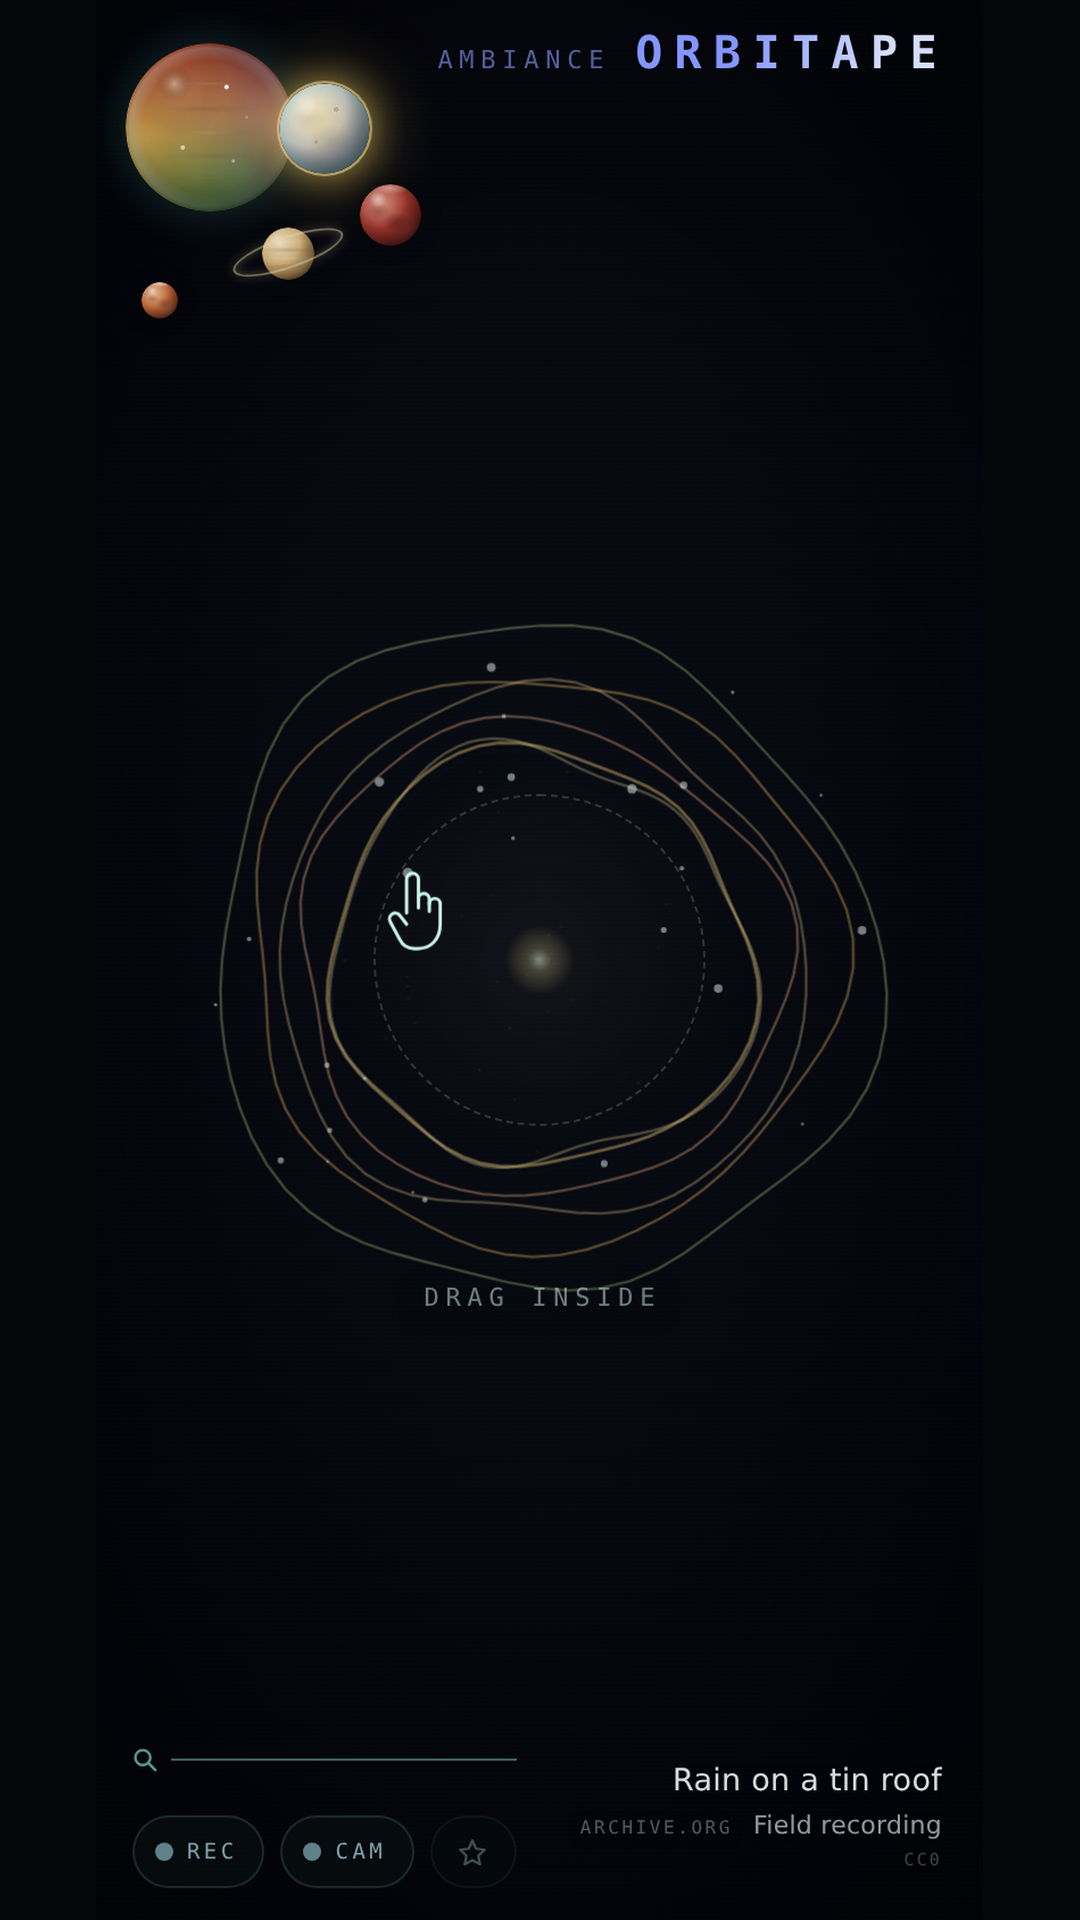
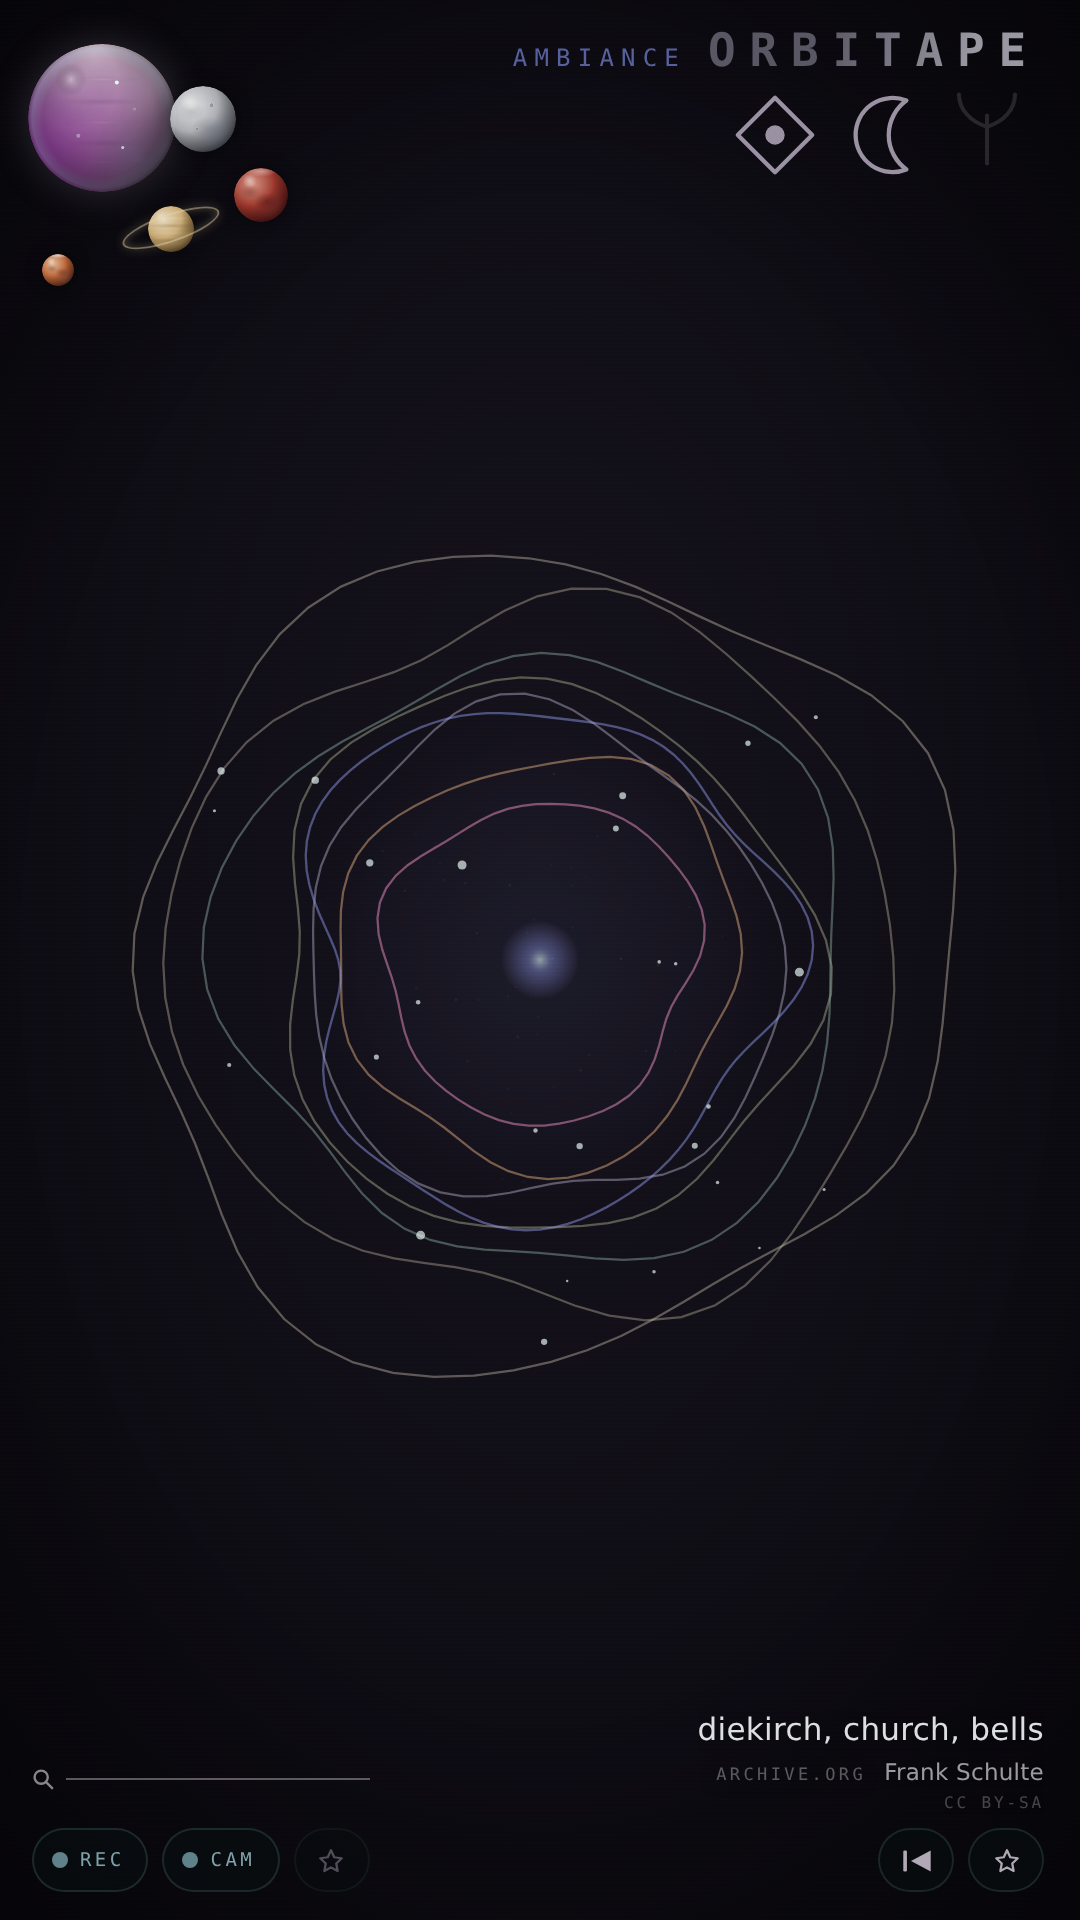
Magaza malzemesi + uc ekran hatasi
Ekran goruntuleri uygulamanin SU ANKI kodundan yeniden cekildi.
Cekim uc gercek hatayi acikca gosterdi ve ucu de duzeltildi:

1. Ulke kodu ekrana hic gelmiyordu. radyo.json'da ulke yaziyor ama
   istasyonDoldur() icindeki ARA nesne alani tasimayi unutmustu;
   sonraki push a.ulke okuyordu. Zincirin iki ucu bagli, ortasi
   kopuktu. Artik: LIVE . ELECTRONIC . UA

2. MIXTAPE kanalinda ust yazi 'RADIOTAPE' diyordu. else dali radyoyu
   da kapsayacak diye yazilmisti ama radyo bir ust satirda zaten
   donuyor; geriye yalnizca mixtape kaliyordu.

3. Kendi parcalarimizda hem kaynak hem sanatci PLAYJOY ve ekranda
   yan yana iki kez yaziyordu. Ayni ise kaynak satiri artik bos.

Ucu de teste baglandi: 337 -> 340.

Ekran goruntuleri: 1 radyo (ulke kodu gorunuyor), 2 retro FX,
3 arsiv -- gercek earth.json kaydi, lisans ve sanatci satiriyla.

diff --git a/test/saglik.js b/test/saglik.js
@@ -2675,6 +2675,62 @@ const K = (ad, gecti, olcum) => sonuc.push({ad, gecti:!!gecti, olcum:String(olcu
         return /_kayitBoyut \+= e\.data\.size/.test(k)
             && /kayitParcalari=\[\]; _kayitBoyut=0/.test(k);
       }), 'her parcada toplaniyor, kayit bitince sifirlaniyor');
+    /* ULKE KODU KUYRUGA KADAR GELMELI.
+       Olculen vaka: radyo.json'da ulke='US' yaziyordu, ekranda ise
+       "LIVE · ELECTRONIC" cikiyor, ulke hic gorunmuyordu. Veri
+       dogruydu; istasyonDoldur() icindeki ARA nesne (aday) alani
+       tasimayi unutmustu, sonraki push da a.ulke okuyordu. Yani
+       zincirin ucu bagliydi, ortasi kopuktu.
+       Bu yuzden test iki ucu birden tutuyor: bicimlendirme (dogru
+       yaziyor mu) VE aktarim (ara nesne alani tasiyor mu). */
+    K('Ulke kodu ekrana kadar geliyor', await pg.evaluate(()=>{
+        const k = document.documentElement.innerHTML;
+        /* 1) Bicim: elde ne varsa o yaziliyor, uydurma yok */
+        const tam  = kaynakSatiri({ radyo:true, grup:'ELECTRONIC', ulke:'us' });
+        const yok  = kaynakSatiri({ radyo:true, grup:'ELECTRONIC', ulke:''   });
+        const rafsiz = kaynakSatiri({ radyo:true, grup:'', ulke:'NL' });
+        /* 2) Aktarim: aday nesnesi de ulkeyi tasiyor olmali --
+           push tarafi a.ulke okuyor, orada yoksa satir hep eksik. */
+        const zincir = /aday\.push\(\{[^}]*ulke\s*:/.test(k)
+                    && /radyoKuyruk\.push\(\{[^}]*ulke\s*:/.test(k);
+        return tam === 'LIVE · ELECTRONIC · US'
+            && yok === 'LIVE · ELECTRONIC'
+            && rafsiz === 'LIVE · NL'
+            && zincir;
+      }), 'LIVE · RAF · ULKE; aday ve kuyruk ikisi de ulkeyi tasiyor');
+    /* KANAL ADI DOGRU YAZILMALI.
+       Olculen vaka: MIXTAPE kanalindayken ust yazi 'RADIOTAPE'
+       diyordu. Else dali radyoyu da kapsayacak diye yazilmisti ama
+       radyo bir ust satirda zaten donuyor; geriye yalnizca mixtape
+       kaliyordu ve yanlis kanalin adini aliyordu. */
+    K('Kanal adi dogru yaziliyor', await pg.evaluate(()=>{
+        const eM = mod, eA = AKTIF_AILE, eK = AKTIF_MOD;
+        const oku = ()=>{ modAdiYaz(); return document.getElementById('modAd').textContent; };
+        AKTIF_MOD = null;
+        mod = 'liste'; AKTIF_AILE = null; const mix = oku();
+        mod = 'lib';                       const ars = oku();
+        mod = 'radio'; AKTIF_AILE = null;  const bos = oku();
+        mod = 'radio'; AKTIF_AILE = 'JAZZ';const raf = oku();
+        mod = eM; AKTIF_AILE = eA; AKTIF_MOD = eK; modAdiYaz();
+        return mix === 'MIXTAPE' && ars === 'ORBITAPE'
+            && bos === '' && raf === 'JAZZ';
+      }), 'liste=MIXTAPE, lib=ORBITAPE, radyoda raf adi ya da bos');
+    /* AYNI SEY IKI KEZ YAZILMAZ. Kendi parcalarimizda hem kaynak hem
+       sanatci 'PLAYJOY' ve ekranda yan yana iki kez cikiyordu. */
+    K('Kaynak sanatciyla ayniysa tekrarlanmiyor', await pg.evaluate(()=>{
+        const eM = mod;
+        mod = 'liste';
+        simdiCalan({ id:'lst:0', ad:'Caramel Delusion', sanatci:'PLAYJOY',
+                     mp3:'https://cdn.jsdelivr.net/gh/playjoymusic/tracks@main/x.mp3' });
+        const ayni = document.getElementById('npKaynak').textContent.trim();
+        simdiCalan({ id:'rb:1', ad:'Some Station', radyo:true,
+                     grup:'JAZZ', ulke:'DE', mp3:'https://x/y' });
+        const farkli = document.getElementById('npKaynak').textContent.trim();
+        mod = eM;
+        /* Ayni oldugunda satir bos; farkli oldugunda hala yaziyor --
+           tekrarı kaldirirken bilgiyi de kaldirmis olmayalim. */
+        return ayni === '' && farkli === 'LIVE · JAZZ · DE';
+      }), 'PLAYJOY PLAYJOY yok; farkli kaynak hala yaziliyor');
     K('Acilis turu bugunku uygulamayi anlatiyor', await pg.evaluate(()=>{
         const a = turAdimlari();
         const basliklar = a.map(x=>x.bas);

diff --git a/index.html b/index.html
@@ -2306,7 +2306,15 @@
        Kanal adı da bu panelde tekrarlanmıyor — sağ üstte zaten yazıyor. */
     ufoDurdur();
     npAd.textContent = ad; npSanatci.textContent = sanatci;
-    try{ npKaynak.textContent = kaynakSatiri(item); }catch(e){ _yut(e); }   // sesin geldiği yer
+    /* KAYNAK SANATÇIYLA AYNIYSA İKİ KEZ YAZILMIYOR. Kendi
+       parçalarımızda ikisi de "PLAYJOY" ve ekranda yan yana
+       "PLAYJOY PLAYJOY" çıkıyordu. Bilgi eklemeyen tekrar, gürültü. */
+    try{
+      const _k = kaynakSatiri(item);
+      npKaynak.textContent =
+        (_k && sanatci && _k.trim().toLowerCase() === sanatci.trim().toLowerCase())
+          ? '' : _k;
+    }catch(e){ _yut(e); }   // sesin geldiği yer
     /* Lisans kendi satırında, en altta. Yoksa hiç yer kaplamıyor
        (canlı radyoda ve kendi parçalarımızda lisans satırı çıkmaz). */
     try{
@@ -5409,7 +5417,11 @@
       for(const st of list){
         const u=st.url_resolved||st.url, id="rb:"+(st.stationuuid||u);
         if(CALINDI.has(id)||radyoKuyruk.some(x=>x.id===id)) continue;
-        aday.push({ id, u, ad:istasyonAdiTemiz(st.name||'radyo'), grup:(st.grup||''), saf:(st.saf||3) });
+        /* ULKE BURADA DA TASINMALI: asagidaki push a.ulke okuyor.
+           Bir ara bu alan burada unutuldu; veri dogruydu ama ara
+           halkada dusuyordu ve ekranda "LIVE · ELECTRONIC" yaziyordu,
+           ulke kodu hic gelmiyordu. */
+        aday.push({ id, u, ad:istasyonAdiTemiz(st.name||'radyo'), grup:(st.grup||''), saf:(st.saf||3), ulke:(st.ulke||'') });
         if(aday.length>=16) break;
       }
       if(aday.length){
@@ -6555,8 +6567,13 @@
            "ne alaka" dedi -- ortadaki zara her basista cikiyordu,
            yani ekranin yarisi zaman ALL yaziyordu). Dogrusu sessizlik:
            secili bir sey yoksa ekranda da bir sey yazmiyor. */
+        /* KANAL ADLARI: lib -> ORBITAPE (arsiv), liste -> MIXTAPE.
+           Burada 'liste' de RADIOTAPE yaziyordu: else dali radyoyu
+           da kapsadigi icin yazilmisti ama radyo bir ustteki satirda
+           zaten donuyor, geriye sadece MIXTAPE kaliyor. Sonuc: mixtape
+           kanalinda ekranda RADIOTAPE yaziyordu. */
         if(typeof mod !== 'undefined' && mod === 'radio') ad = AKTIF_AILE || '';
-        else ad = AKTIF_MOD || (mod === 'lib' ? 'ORBITAPE' : 'RADIOTAPE');
+        else ad = AKTIF_MOD || (mod === 'lib' ? 'ORBITAPE' : 'MIXTAPE');
       }catch(e){ ad = AKTIF_MOD || ''; }
     }
     el.textContent = ad;

diff --git a/magaza/METINLER.md b/magaza/METINLER.md
@@ -132,9 +132,29 @@ ama **cihazdan çıkmadığı**.
 | `ekran-2-1080x1920.png` | 1080 × 1920 | Telefon ekran görüntüsü |
 | `ekran-3-1080x1920.png` | 1080 × 1920 | Telefon ekran görüntüsü |
 
-Ekran görüntüleri uygulamanın kendi `ekran-*.png` dosyalarından
-üretildi. İçerik değiştirilmedi; Play'in istediği **9:16** oranına
-uyması için uygulamanın kendi koyu zemininde ortalandı — kırpma yok,
-esnetme yok.
+Ekran görüntüleri **uygulamanın şu anki kodundan** yeniden çekildi
+(540×960 görüntü alanı, 2× ölçek → tam 1080×1920). Kırpma yok,
+esnetme yok, elle rötuş yok.
+
+Çekimde gerçek `radyo.json` ve gerçek `earth.json` kullanıldı:
+ekranda görünen istasyon adları, rafları, ülke kodları, arşiv kaydının
+adı, sanatçısı ve lisansı **depoda yazanın aynısı**. Ses yerine kısa
+bir ton döndürüldü — görselleştirici gerçek sinyalle çalıştı.
+
+| Dosya | Ne gösteriyor |
+|---|---|
+| `ekran-1` | Canlı radyo, ELECTRONIC rafı seçili — `LIVE · ELECTRONIC · UA` |
+| `ekran-2` | Retro FX açık, parmak diskin içinde, `DRAG INSIDE` |
+| `ekran-3` | Arşiv (ORBITAPE), AMBIANCE rafı — ARCHIVE.ORG · Frank Schulte · CC BY-SA |
+
+Üçüncüsü bilerek arşiv tarafından: **lisans ve sanatçı satırı**
+uygulamanın en önemli sözü ve mağaza sayfasında görünmesi lazım.
+
+Bir ara MIXTAPE kanalında çekilmişti; o kanal kodda kapalı
+(`KANAL_SIRA = ['radio','lib']`), yani kullanıcının hiç gidemediği bir
+ekran mağazaya girecekti. Değiştirildi.
+
+Eski görüntüler uygulamanın **önceki** halindendi ve mağazaya
+girseydi bugünkü uygulamayı yanlış anlatırdı; bu yüzden değiştirildi.
 
 Uygulama simgesi olarak `icon-512.png` kullanılacak (512 × 512, hazır).
